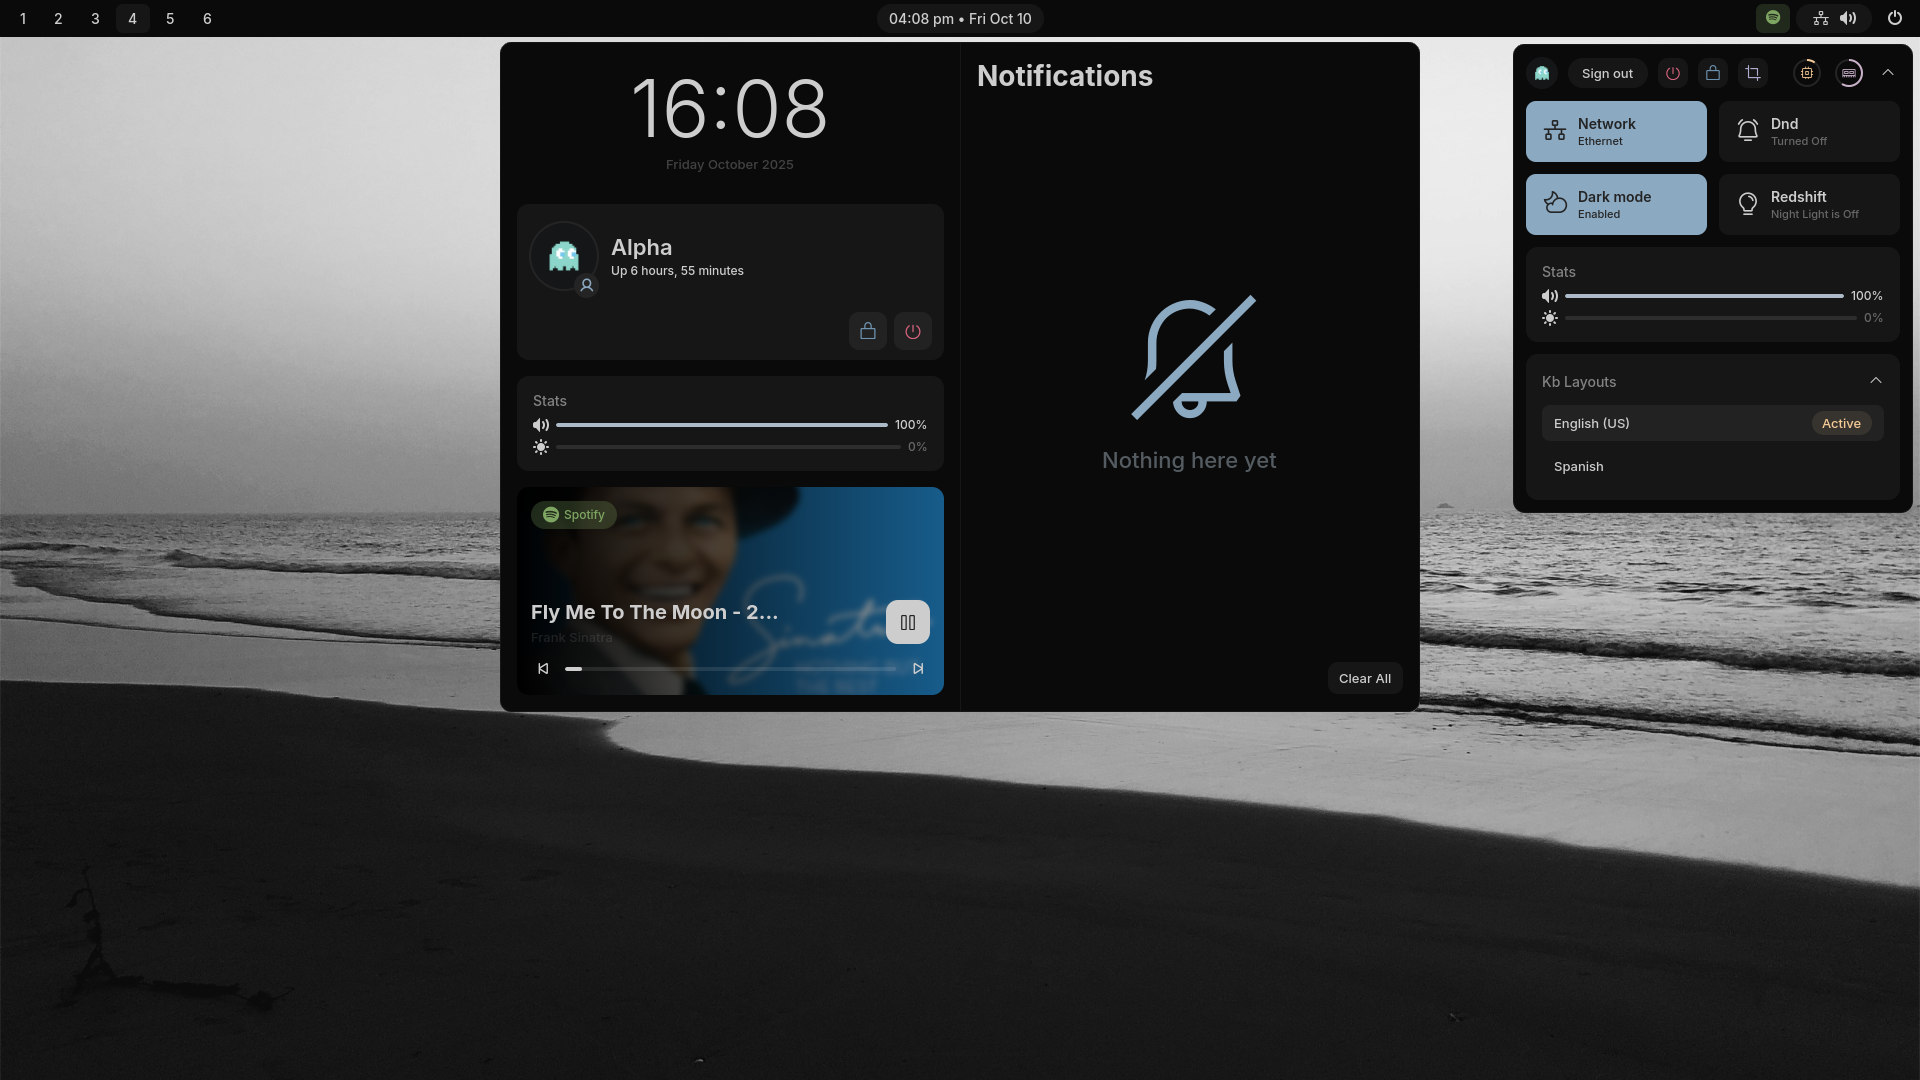
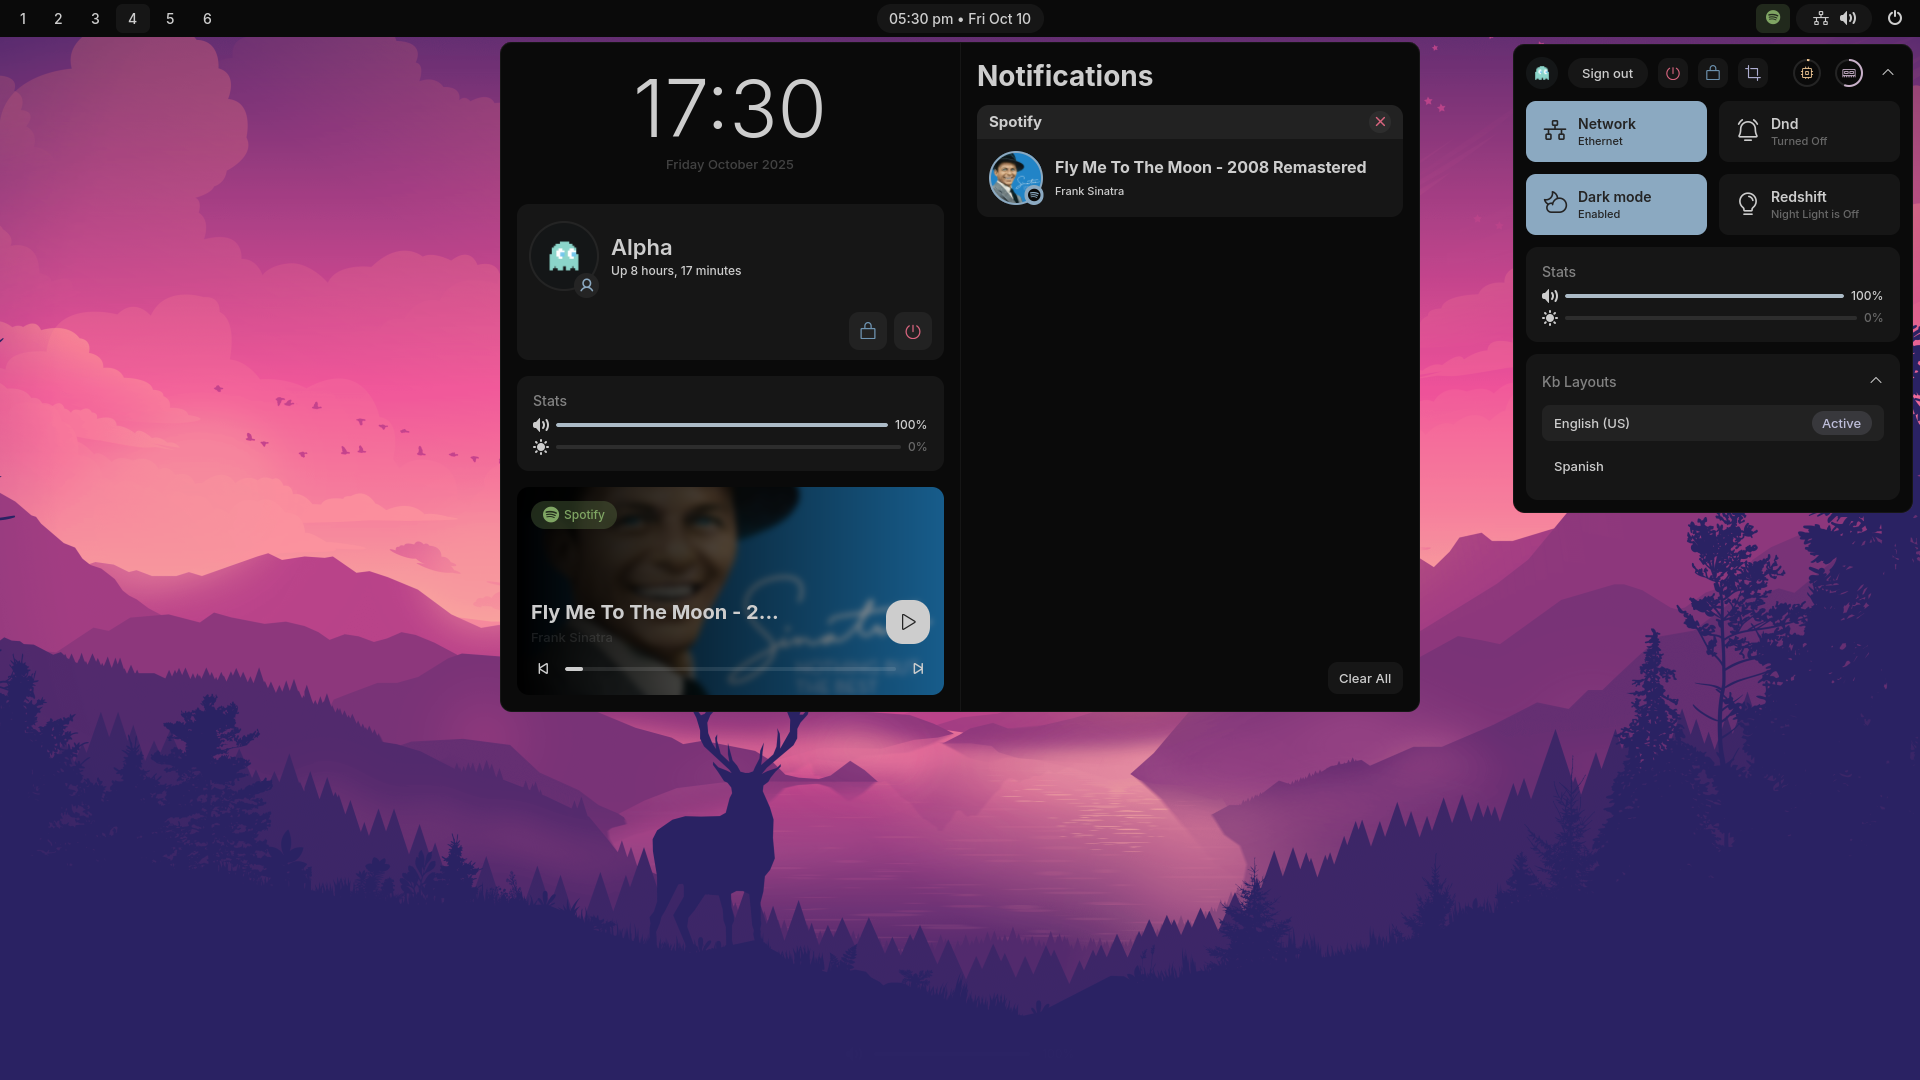
feat: Add new demonstration

diff --git a/theme.scss b/theme.scss
@@ -1,33 +1,33 @@
 @use "sass:color";
 
-$light_mode: true;
-$background: #dee1e6;
-$solid-bg: #dee1e6;
-$foreground: #2e2c2f;
-$black: #c5c8cd;
-$red: #BA5860;
-$green: #728B79;
-$yellow: #c8a360;
-$blue: #5292C6;
-$magenta: #8C6AA8;
-$cyan: #489CA5;
-$white: #101419;
-$light_black: #989ba0;
-$light_red: #9d4b53;
-$light_green: #59795f;
-$light_yellow: #a78a58;
-$light_blue: #40739a;
-$light_magenta: #715688;
-$light_cyan: #3b8187;
-$light_white: #1f2328;
+$light_mode: false;
+$background: #0a0a0a;
+$solid-bg: #0a0a0a;
+$foreground: #cdcdcd;
+$black: #242424;
+$red: #d8647e;
+$green: #7fa563;
+$yellow: #f3be7c;
+$blue: #6e94b2;
+$magenta: #bb9dbd;
+$cyan: #aeaed1;
+$white: #cdcdcd;
+$light_black: #424242;
+$light_red: #e08398;
+$light_green: #99b782;
+$light_yellow: #f5cb96;
+$light_blue: #8ba9c1;
+$light_magenta: #c9b1ca;
+$light_cyan: #bebeda;
+$light_white: #d7d7d7;
 $general-opacity: 1;
-$contrast1: rgba(#000000, 0.05);
-$contrast2: rgba(#000000, 0.1);
-$contrastfg: rgba(#000000, 0.35);
+$contrast1: rgba(#ffffff, 0.05);
+$contrast2: rgba(#ffffff, 0.1);
+$contrastfg: rgba(#ffffff, 0.35);
 $font-regular: Inter;
 $font-icons: Phosphor;
 $font-nf: JetBrainsMono Nerd Font;
-$accent: $cyan;
+$accent: $light_blue;
 $accent2: $light_cyan;
-$tinted-white: color.mix($accent, $black, 50%);
-$tinted-white-2: color.mix($accent, $black, 75%);
+$tinted-white: color.mix($accent, $white, 50%);
+$tinted-white-2: color.mix($accent, $white, 75%);

diff --git a/widget/ControlCenter/style.scss b/widget/ControlCenter/style.scss
@@ -183,7 +183,7 @@ window.ControlCenter {
             .ActiveChip {
               font-size: 13px;
               color: $accent2;
-              background-color: rgba($accent2, 0.10);
+              background-color: rgba($accent2, 0.14);
               padding: 4px 10px;
               border-radius: 100px;
               &.Inactive { background-color: transparent; }

diff --git a/widget/ControlCenter/views/views/main.tsx b/widget/ControlCenter/views/views/main.tsx
@@ -112,7 +112,7 @@ function NetworkChip() {
 
   const handleToggle = () => {
     if (primary.get() === Network.Primary.WIFI) {
-      // TODO: Do toggle
+      // TODO: Implement wifi module (i have no wifi atm)
       execAsync("nmcli radio wifi off");
     }
   };
